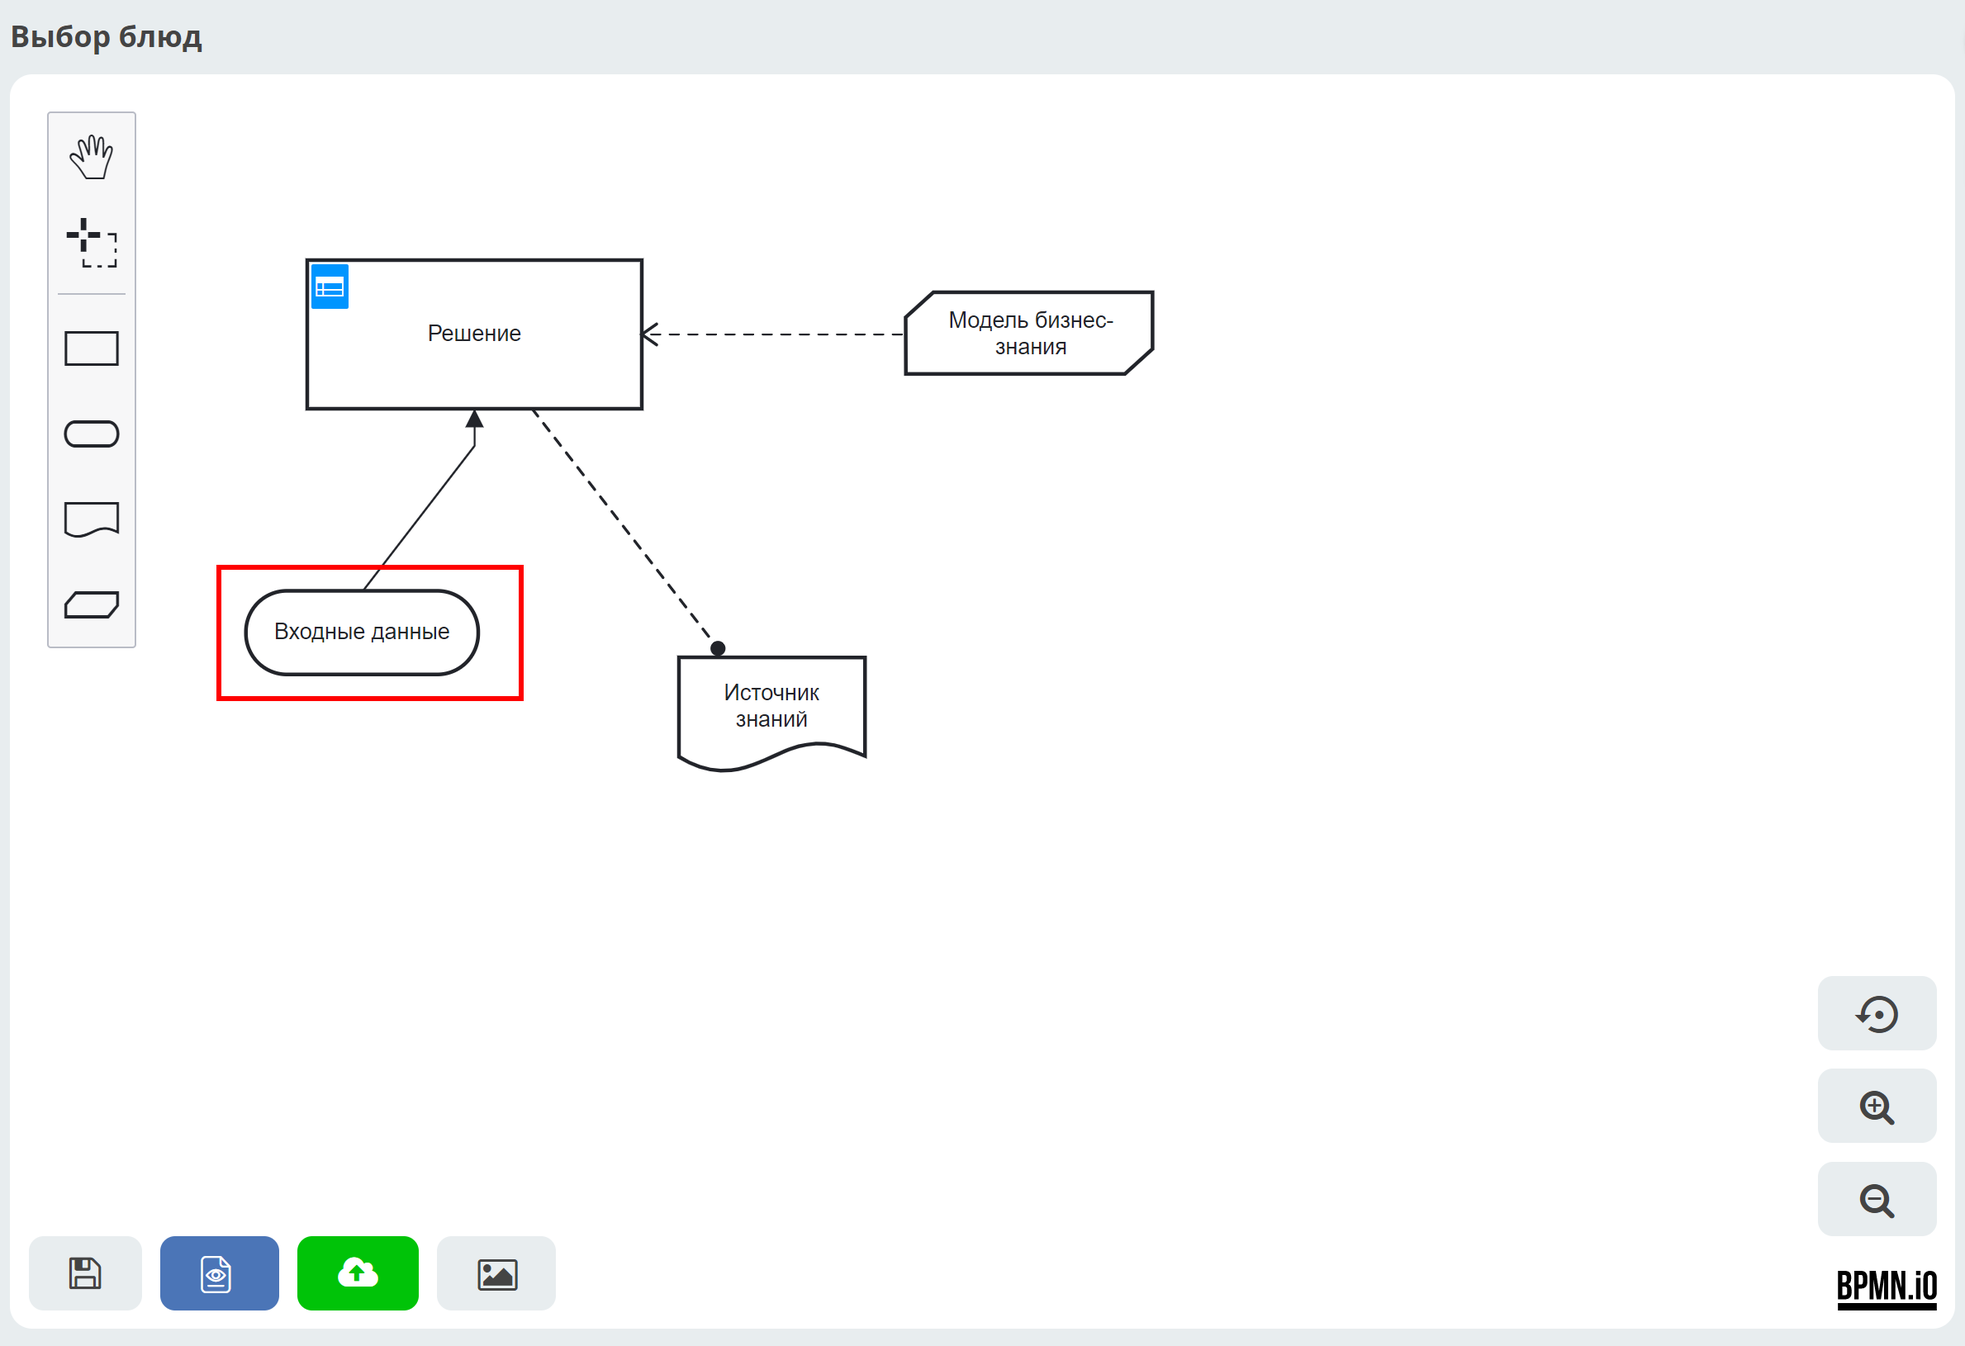
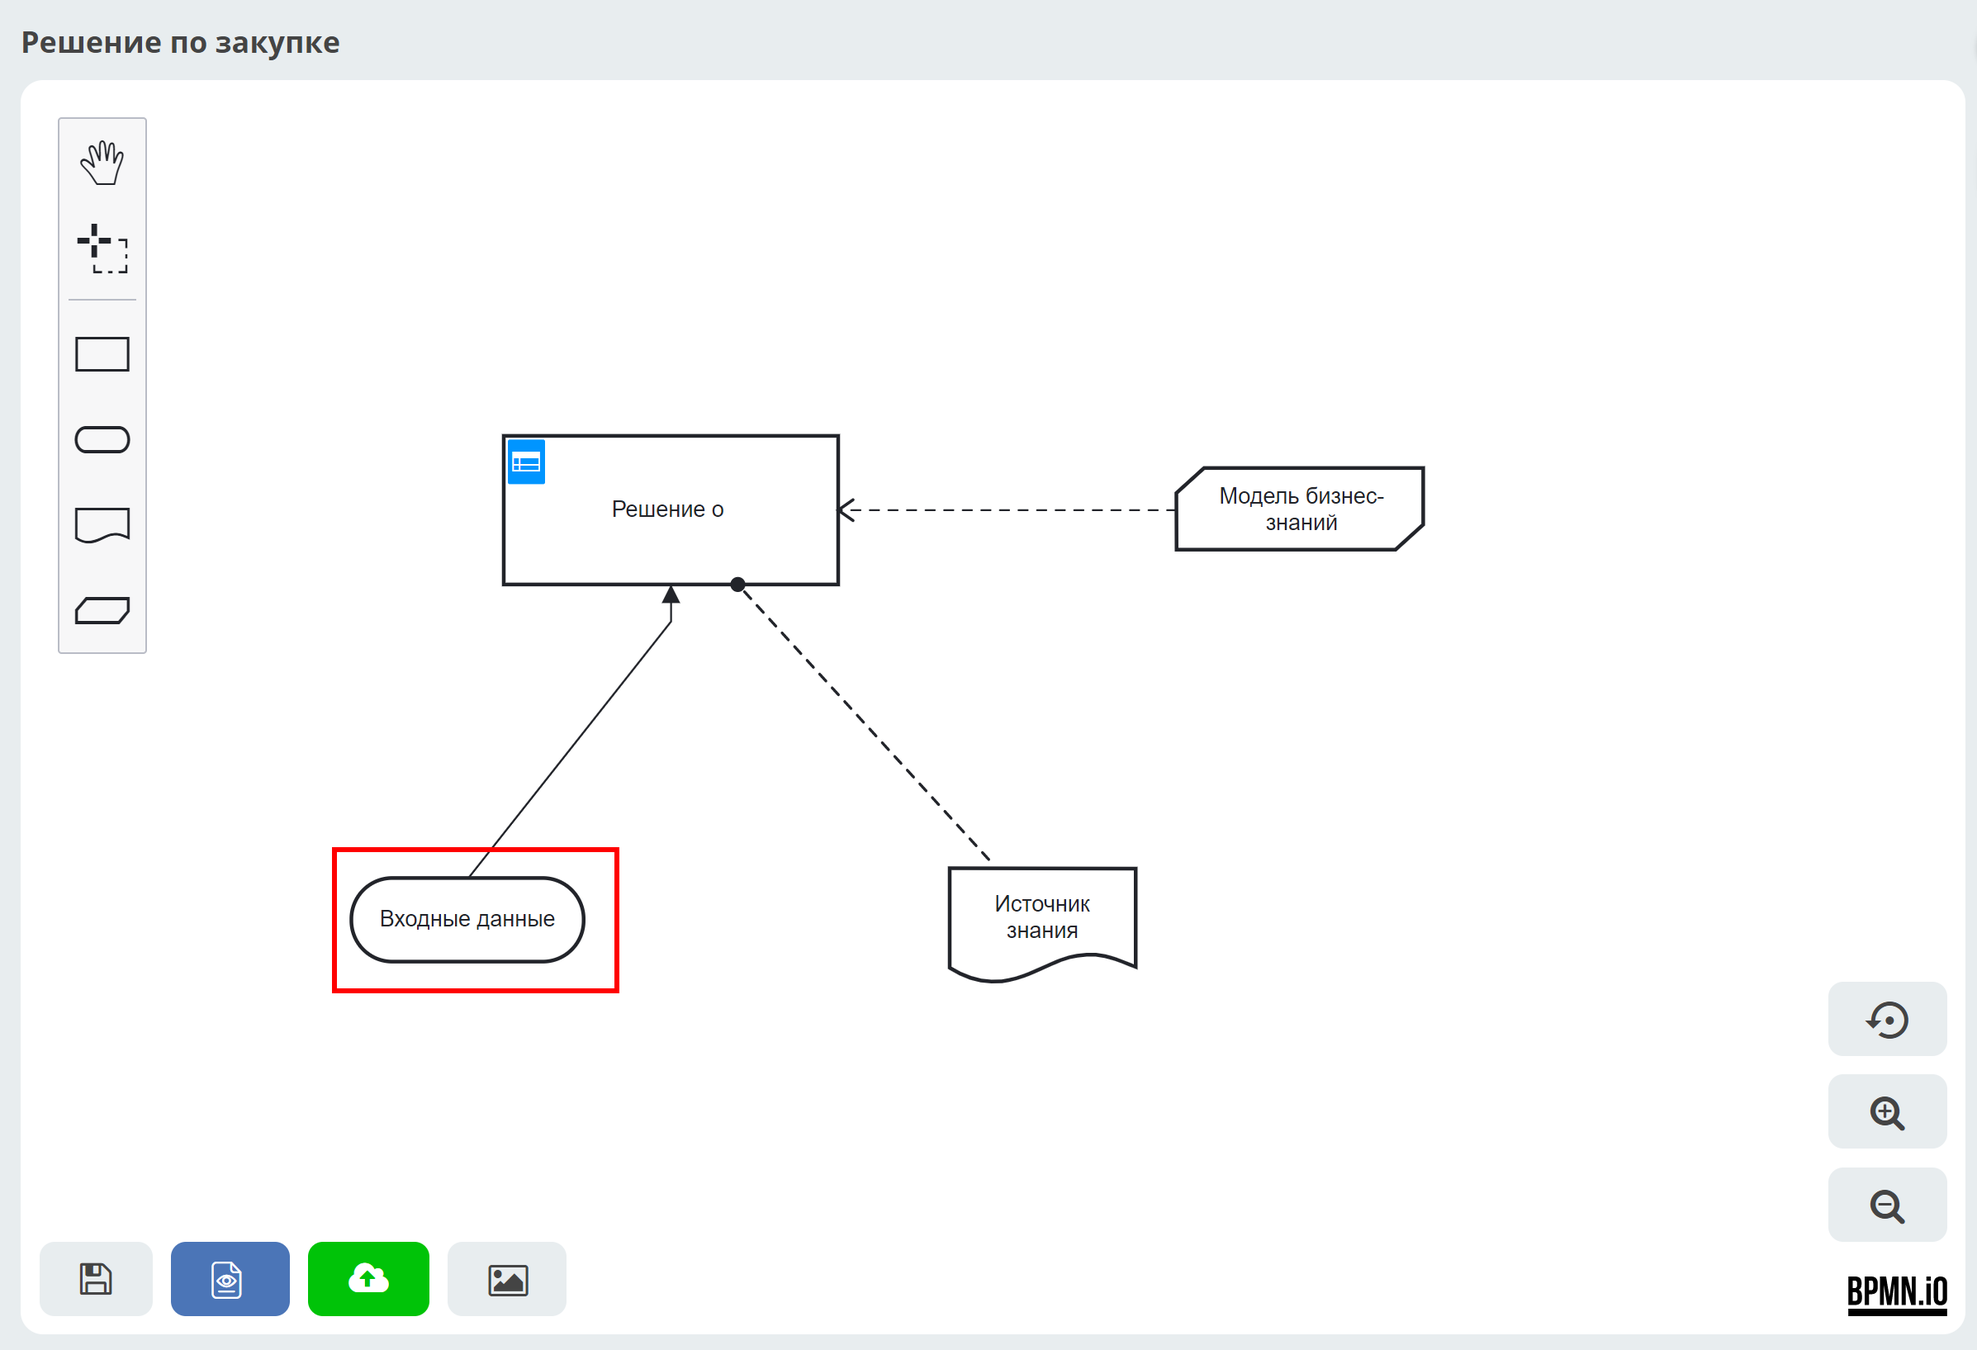
DMN_upt, ECOSCOM-4987

diff --git a/docs/settings_kb/processes/ecos_dmn/editor/components/ecos_dmn_components_decision.rst b/docs/settings_kb/processes/ecos_dmn/editor/components/ecos_dmn_components_decision.rst
@@ -82,7 +82,7 @@
       * - **First (Политика первого совпадения)**
         - | Можно удовлетворить несколько правил. Результат таблицы решений содержит только вывод первого выполненного правила.
       * - **Priority**
-        - | ???
+        - | Пока не реализовано.
       * - **Any (Любая)**
         - | Можно удовлетворить несколько правил. Однако все удовлетворяемые правила должны генерировать один и тот же результат. 
           | Результат таблицы решений содержит только вывод одного из удовлетворенных правил.
@@ -124,7 +124,7 @@
 
 Таблица решений может иметь один или несколько входных элементов. Входной элемент определяет идентификатор, метку, выражение и тип ввода таблицы решений.
 
-Ввод можно редактировать, дважды щелкнув заголовок соответствующего столбца в таблице решений.
+Ввод можно редактировать, дважды кликнув заголовок соответствующего столбца в таблице решений.
 
 .. list-table::
       :widths: 5 10 30 
@@ -228,4 +228,63 @@
 **3. Описание:**
 
 В правило может быть добавлено описание, содержащее дополнительную информацию.
+
+Пример создания таблицы принятия решений
+-------------------------------------------
+
+Кликните дважды на поле и установите название решения **«Решение по закупке»**. Далее перейдите к таблице решений, кликнув значок таблицы в верхней части решения: 
+
+ .. image:: _static/decision/sample_1.png
+       :width: 200
+       :align: center
+
+Для установки наименования входного элемента, дважды кликните поле под **«When»** и введите **«Группа товаров» (1)** в самом верхнем поле. 
+
+Для установки  наименования выходного элемента, дважды кликните поле под **«Then»** и введите **«Согласование» (2)** в самом верхнем поле.
+
+ .. image:: _static/decision/sample_2.png
+       :width: 600
+       :align: center
+
+Предполагая, что входное значение для **«Группа товаров»** представляется переменной с именем **«type»**, входное выражение должно быть **«type»** c типом **string**.
+
+Дважды кликните поле **«Группа товаров»**. В появившемся модальном меню установите **«type»** в качестве выражения, и тип **string**, и закройте его.
+
+ .. image:: _static/decision/sample_3.png
+       :width: 200
+       :align: center
+
+Затем дважды щелкните поле **«Согласование»** и установите **«agreement»** в качестве названия выходного элемента и тип **string**.
+
+ .. image:: _static/decision/sample_4.png
+       :width: 200
+       :align: center
+
+Далее добавьте первое правило, указывающее, что для **«Канцелярские товары» — «Разрешить»**.
+
+Нажмите кнопку **«+»** внизу таблицы или просто нажмите в любом месте последней строки. 
+
+В добавленной строке введите **«Канцелярские товары»** в столбце ввода и **«Разрешить»** в столбце вывода.
+
+ .. image:: _static/decision/sample_5.png
+       :width: 600
+       :align: center
+
+**«Канцелярские товары»** — это условие (т. е. входной элемент) правила. Это выражение в `FEEL <https://docs.camunda.org/manual/7.18/reference/dmn/feel/>`_ , которое применяется, а затем проверяет, равно ли входное значение (т. е. переменная **«type»**) «Канцелярские товары».
+
+**«Разрешить»** — это вывод (т. е. выходной элемент) правила. Это простое выражение в JUEL возвращает строку **«Канцелярские товары»**.
+
+Затем добавьте второй входной элемент **«Стоимость»** с входным выражением **«cost»** и типом **«integer»**. Заполните таблицу дополнительными правилами для оставшихся **Групп товаров**.
+
+ .. image:: _static/decision/sample_6.png
+       :width: 600
+       :align: center
+
+Установите для политики выбора значение **«Unique»** , которое указывает, что может совпадать только одно правило. Убедитесь, что таблица решений содержит только одно правило, которое может соответствовать входным данным.
+
+Кликните раскрывающийся список **«Политика выбора»** и выберите политику **«Unique»**.
+
+ .. image:: _static/decision/sample_7.png
+       :width: 500
+       :align: center
 

diff --git a/docs/settings_kb/processes/ecos_dmn/editor/components/ecos_dmn_components_connectors.rst b/docs/settings_kb/processes/ecos_dmn/editor/components/ecos_dmn_components_connectors.rst
@@ -1,0 +1,39 @@
+Соединение элементов
+=====================
+
+.. _dmn_connectors:
+
+.. list-table::
+      :widths: 20 30 20 
+      :align: center
+      :class: tight-table 
+      
+      * - **Требование к информации**
+        - Требование к информации обозначает входные данные или результат решения, которые используются в качестве одного из входов решения.
+        -
+            
+            .. image:: _static/connectors/connector_1.png
+                  :width: 100
+                  :align: center
+
+      * - **Требование к знаниям**
+        - Требование к знаниям обозначает вызов модели бизнес-знаний с помощью логики решения.
+        -
+            
+            .. image:: _static/connectors/connector_2.png
+                  :width: 100
+                  :align: center
+
+      * - **Требование к полномочиям**
+        - Требование к полномочиям обозначает зависимость элемента модели принятия решений от другого элемента , который выступает в качестве источника руководства или знаний.
+        -
+            
+            .. image:: _static/connectors/connector_3.png
+                  :width: 100
+                  :align: center
+
+Правила соединения элементов:
+
+.. image:: _static/connectors/requirement_connectors_table.png
+      :width: 800
+      :align: center

diff --git a/docs/settings_kb/processes/ecos_dmn/editor/components/ecos_dmn_components_knowledge_model.rst b/docs/settings_kb/processes/ecos_dmn/editor/components/ecos_dmn_components_knowledge_model.rst
@@ -1,9 +1,9 @@
-Модель бизнес-знания
+Модель бизнес-знаний
 ======================
 
 .. _dmn_knowledge_model:
 
-**Модель бизнес-знания** – повторно используемая функция с одним или несколькими элементами принятия решений. Решения, которые имеют одинаковую логику, но зависят от разных вспомогательных входных данных или решений, используют модели бизнес-знания, чтобы определить какой процедуре следовать.
+**Модель бизнес-знаний** – повторно используемая функция с одним или несколькими элементами принятия решений. Решения, которые имеют одинаковую логику, но зависят от разных вспомогательных входных данных или решений, используют модели бизнес-знания, чтобы определить какой процедуре следовать.
 
  .. image:: _static/knowledge_model/knowledge_model_1.png
        :align: center 

diff --git a/docs/settings_kb/processes/ecos_dmn/editor/components/ecos_dmn_components_knowledge_data.rst b/docs/settings_kb/processes/ecos_dmn/editor/components/ecos_dmn_components_knowledge_data.rst
@@ -1,9 +1,9 @@
-Источник знаний
+Источник знания
 =================
 
 .. _dmn_knowledge_data:
 
-**Источник знаний** – внешние сущности, документы, комитеты или политики, которые регулируют модель принятия решений или бизнес-знаний. Источники знаний – ссылки на факторы реального мира, а не исполняемые бизнес-правила. Например, заявка на кредит.
+**Источник знания** – внешние сущности, документы, комитеты или политики, которые регулируют модель принятия решений или бизнес-знаний. Источники знаний – ссылки на факторы реального мира, а не исполняемые бизнес-правила. Например, заявка на кредит.
 
  .. image:: _static/knowledge_data/knowledge_data_1.png
        :align: center 

diff --git a/docs/settings_kb/interface/forms/form_components/components/file.rst b/docs/settings_kb/interface/forms/form_components/components/file.rst
@@ -93,3 +93,18 @@ File
             “size“: размер_файла_в_байтах
         }
     ]
+
+Синхронизация с виджетом документов
+------------------------------------
+
+Для синхронизации с виджетом документов на форму нужно добавить поле ``docs:documents`` с контролом ``file``:
+
+.. image:: _static/file/file_5.png
+       :width: 500
+       :align: center
+
+На вкладке **Файл** указать тип(ы), с которыми следует загружать новые файлы (если файл загрузить без типа, то в виджете он не появится):
+
+.. image:: _static/file/file_5.png
+       :width: 500
+       :align: center

diff --git a/docs/settings_kb/processes/ecos_dmn/editor/ecos_dmn_components.rst b/docs/settings_kb/processes/ecos_dmn/editor/ecos_dmn_components.rst
@@ -10,4 +10,4 @@
     components/ecos_dmn_components_input_data
     components/ecos_dmn_components_knowledge_data
     components/ecos_dmn_components_knowledge_model
-    components/ecos_dmn_components_comment
+    components/ecos_dmn_components_connectors

diff --git a/docs/settings_kb/processes/DMN_ecos.rst b/docs/settings_kb/processes/DMN_ecos.rst
@@ -1,5 +1,5 @@
-Редактор моделей принятия решения (ECOS DMN)
-=============================================
+Модели принятия решений (ECOS DMN)
+===================================
 
 .. _ecos-dmn:
 

diff --git a/docs/settings_kb/processes/ecos_dmn/editor/ecos_dmn_editor.rst b/docs/settings_kb/processes/ecos_dmn/editor/ecos_dmn_editor.rst
@@ -1,5 +1,5 @@
-Конструктор моделей принятия решений
-======================================
+Конструктор DMN
+================
 
 .. _editor_dmn:
 
